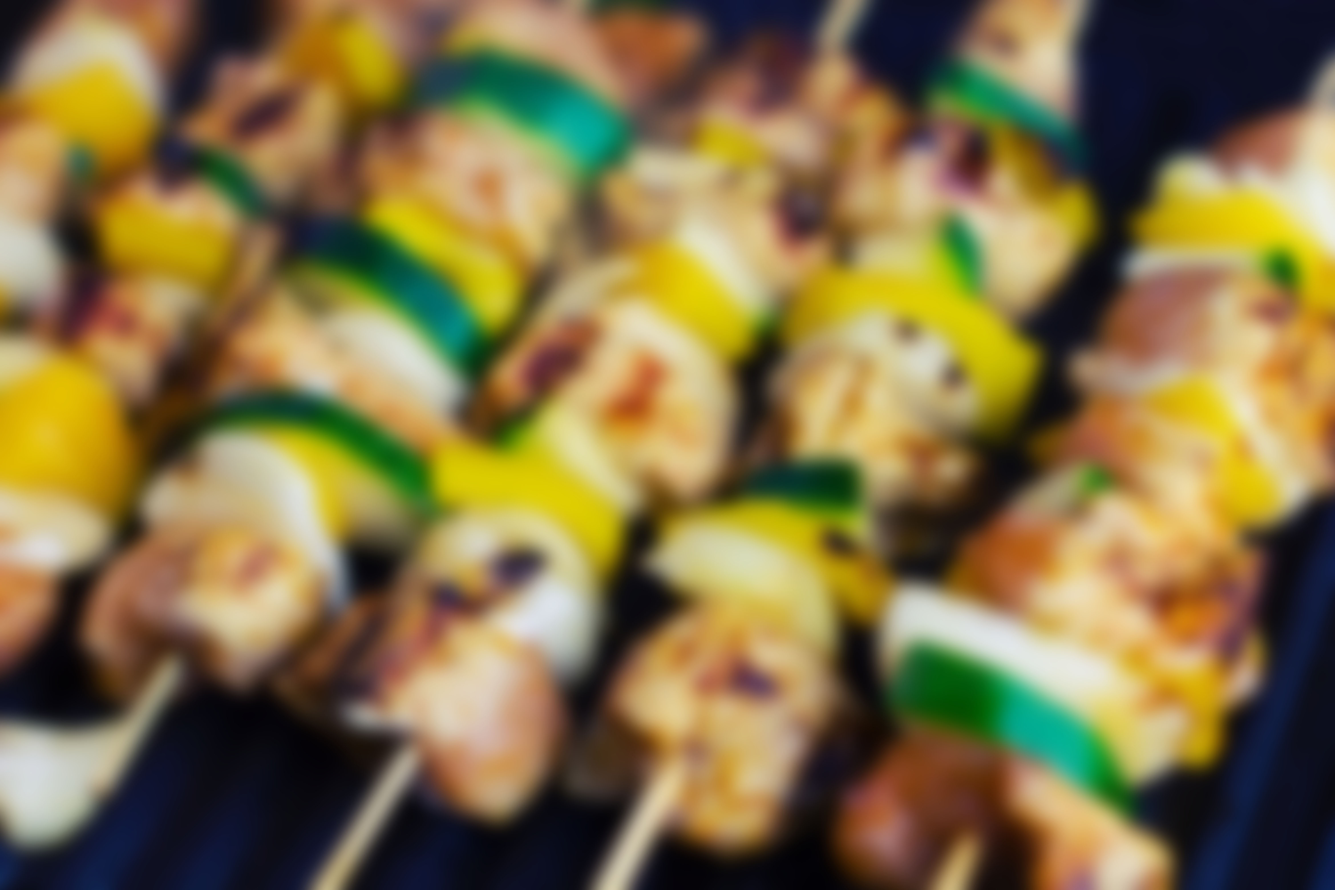
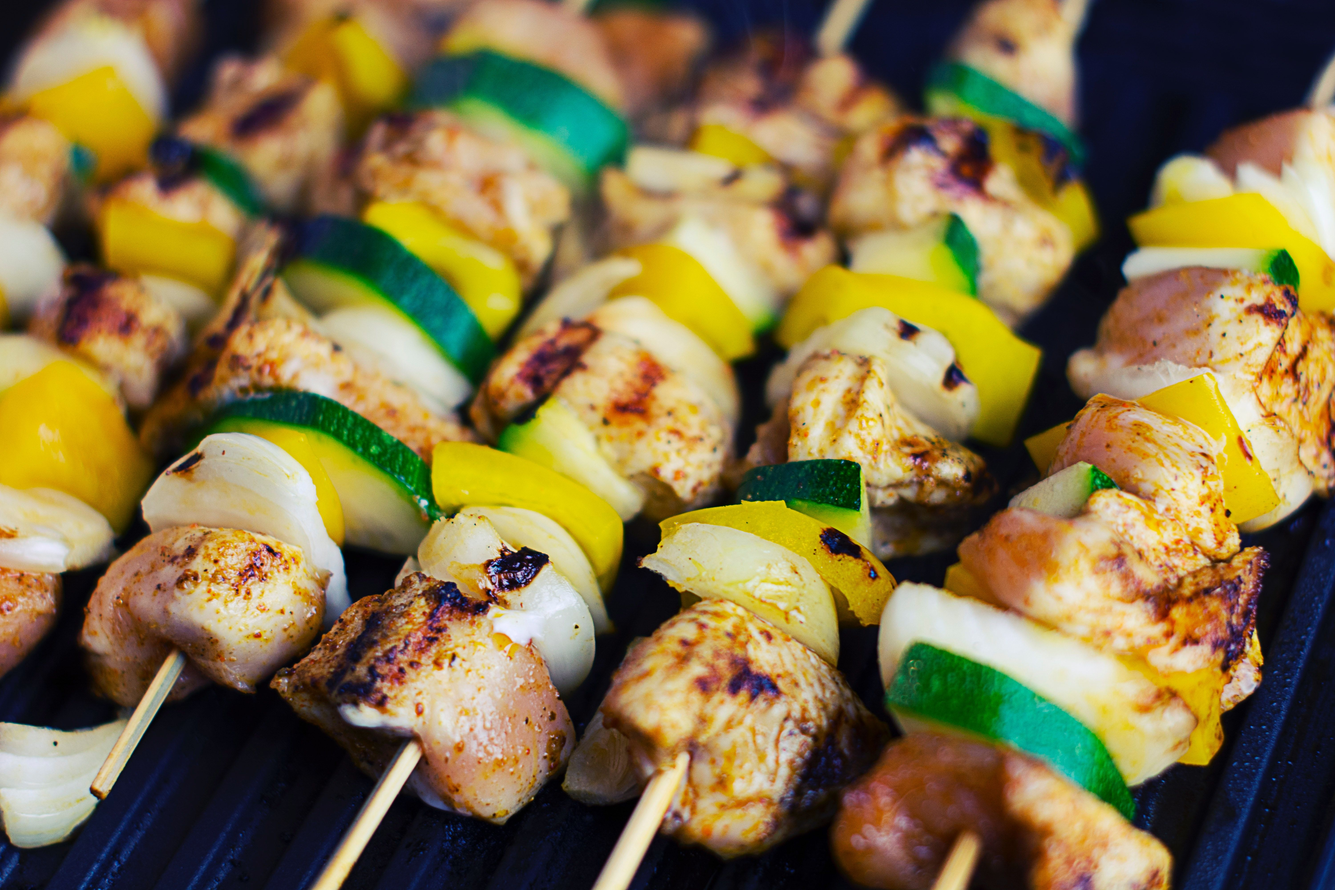
Unblurred Kebap

diff --git a/css/aboutstyle.css b/css/aboutstyle.css
@@ -7,7 +7,7 @@ body{
 
 .content {
   /* The image used */
-  background-image: url("../images/pizza-back1-blur.jpg");
+  background-image: url("../images/kebap-back1.jpg");
   height: 185%;
 }
 
